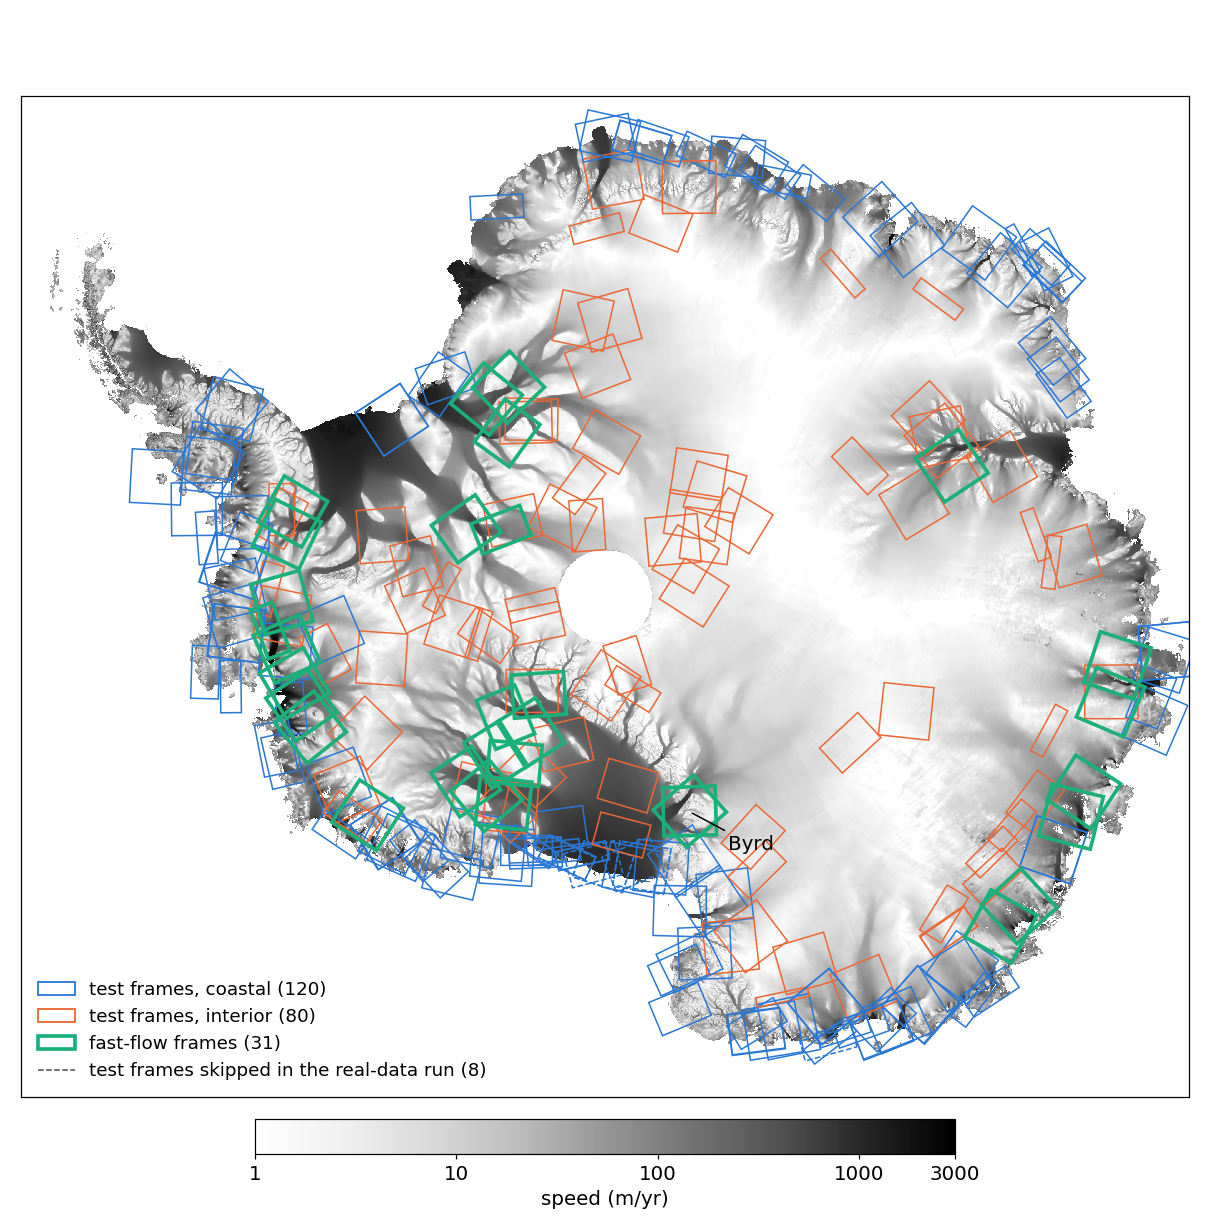
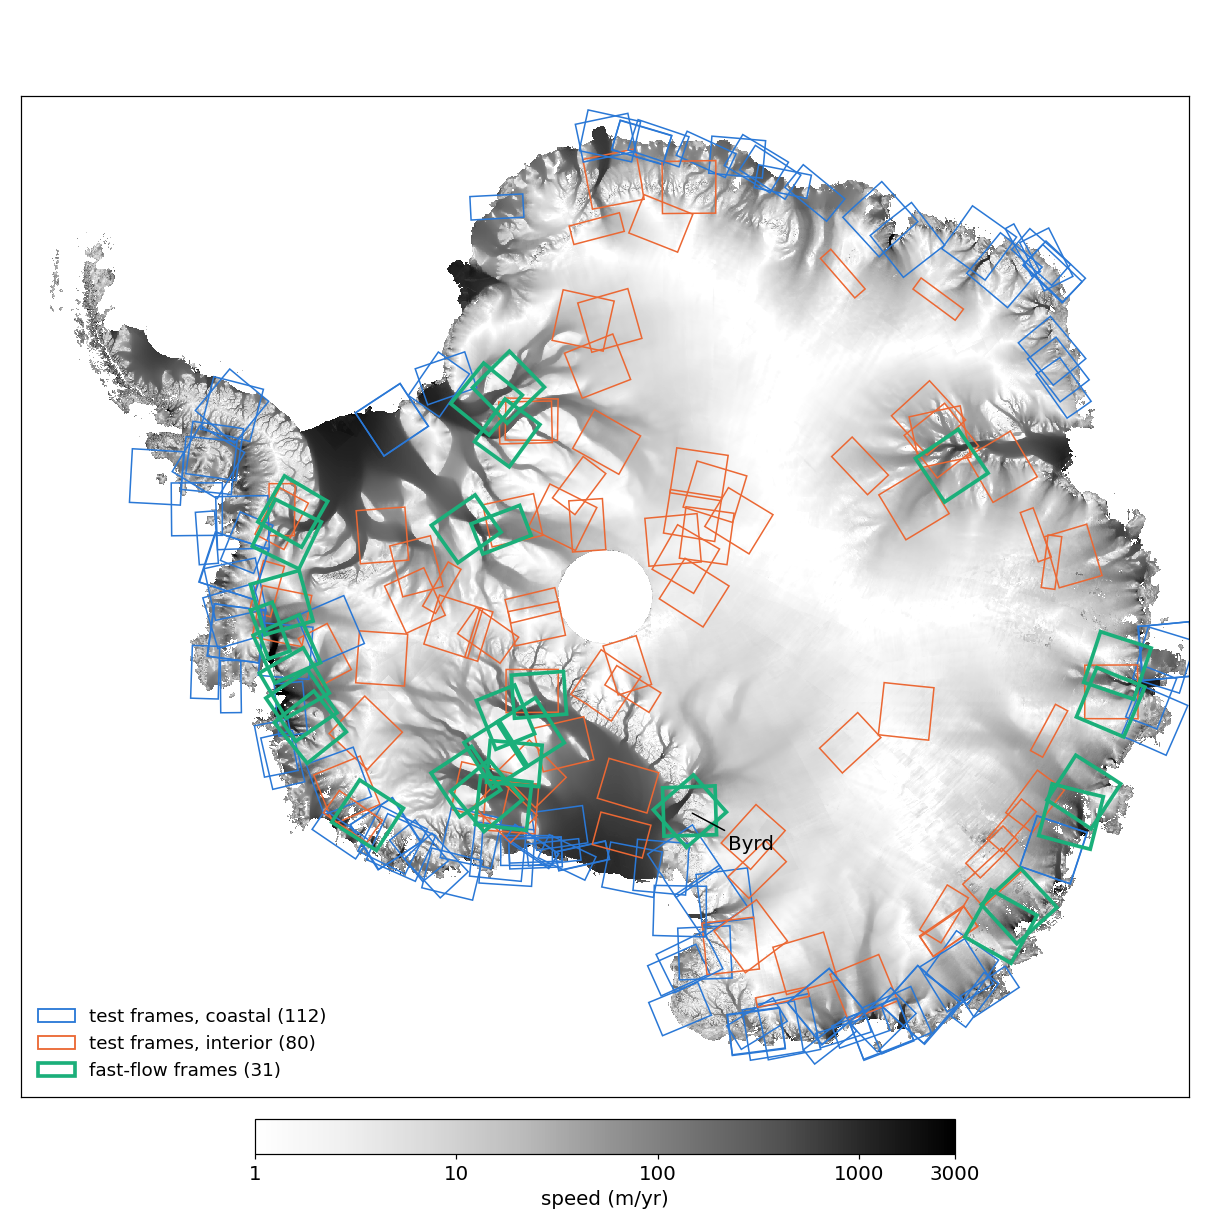
unwrappingReference: frame map and text cover only the 223 scored real frames (192 test, 31 fast-flow)
Claude-Session: https://claude.ai/code/session_01UG6jZhctxPfaFKqE7cozuF

Changed region(s): [[0.0306, 0.8019, 0.3975, 0.8945], [0.4587, 0.6786, 0.5504, 0.7403]]

diff --git a/Documents/unwrappingReference.md b/Documents/unwrappingReference.md
@@ -1,10 +1,10 @@
 # Unwrapping NISAR interferograms with a reference removed: velocity map or range offsets
 
 **Status: draft, 2026-11-17.** All runs described here are complete (Section 1.5 lists what was run on which
-frames). The real-data results are for 231 Antarctica40 frames, 223 of them scored: the 200 frames of the synthetic
-test of `snaphuTilingMasking.md` (the *test frames*, 120 coastal and 80 interior; 192 scored) and 31 frames chosen for
-fast flow (the *fast-flow frames*). Results are given for all of them together, and broken down by set (fast-flow,
-coastal test, interior test) where the sets differ.
+frames). The real-data results are for 223 Antarctica40 frames: 192 of the frames of the synthetic test of
+`snaphuTilingMasking.md` (the *test frames*, 112 coastal and 80 interior) and 31 frames chosen for fast flow (the
+*fast-flow frames*). Results are given for all 223 together, and broken down by set (fast-flow, coastal test,
+interior test) where the sets differ.
 
 ## Purpose
 
@@ -107,16 +107,17 @@ has not been tested.
 
 ### 1.3 Data
 
-- **Test frames (200).** The frames of the synthetic test of `snaphuTilingMasking.md`, drawn to represent the coast
-  (120) and the interior (80) of the Antarctica40 project. They are used twice: as the synthetic test (below), and with
-  their real data, unwrapped with both references like the fast-flow frames.
+- **Test frames (192).** Frames of the synthetic test of `snaphuTilingMasking.md`, drawn to represent the coast (112)
+  and the interior (80) of the Antarctica40 project. Their real data are unwrapped with both references like the
+  fast-flow frames.
 - **Fast-flow frames (31).** Thirty frames chosen over fast-flowing grounded ice, plus Byrd Glacier. The thirty were
   drawn from all Antarctica40 frame locations: at most one third of the frame over open water, at least 300 km² of
   grounded ice faster than 400 m/yr, and at least two components in the standard RUNW each of 5% or more of the frame;
   the most recent such pair per location, at most two per track, centres at least 100 km apart, ranked by fast-ice
   area. They cover the Siple Coast ice streams, Pine Island and Thwaites, Recovery and Slessor, Totten and Denman,
   Evans and Rutford, Lambert, the Peninsula and Byrd. None of them is a test frame.
-- **Synthetic test.** On the test frames, the truth is each frame's map simulation, and the noisy interferogram is the
+- **Synthetic test (200 frames).** The full synthetic test of `snaphuTilingMasking.md`, which includes the test
+  frames. The truth is each frame's map simulation, and the noisy interferogram is the
   truth plus noise matched to the frame's coherence and residue density. For this study the same noisy interferograms
   were unwrapped with two references: the frame's **real** range offsets, which differ from the synthetic truth by the
   real map error and ionosphere as well as their own noise (a harder case than real data, where phase and offsets see
@@ -126,9 +127,9 @@ has not been tested.
 Figure 2 shows where the frames are.
 
 ![Figure 2](images/unwrapRef_frameMap.png)
-*Figure 2. The frames used, over ice speed from the NISAR multi-year Antarctic mosaic (June 2025 to November 2026),
-polar stereographic projection. Thin outlines: the 200 test frames, coastal (blue) and interior (orange); dashed, the
-8 whose real data were not unwrapped (Section 1.5). Thick green outlines: the 31 fast-flow frames, including Byrd.*
+*Figure 2. The 223 real frames, over ice speed from the NISAR multi-year Antarctic mosaic (June 2025 to November
+2026), polar stereographic projection. Thin outlines: the 192 test frames, coastal (blue, 112) and interior (orange,
+80). Thick green outlines: the 31 fast-flow frames, including Byrd.*
 
 ### 1.4 After unwrapping
 
@@ -146,16 +147,13 @@ all residue counts are on the same valid ice pixels for every reference within a
 
 | Set | Frames | Run | Scored |
 |---|---|---|---|
-| Synthetic test | 200 test frames | the synthetic interferograms unwrapped with masked tiled `-S` and no reference, with the real offsets removed, and with the synthetic offsets removed | 200 |
-| Test frames, real data | 200 (120 coastal, 80 interior) | the standard RUNW's wrapped phase unwrapped with masked tiled `-S`, once with the 1 km smoothed map simulation removed and once with the range offsets removed, then the GrIMP ionosphere step on each | 192 |
+| Synthetic test | 200 (including the test frames) | the synthetic interferograms unwrapped with masked tiled `-S` and no reference, with the real offsets removed, and with the synthetic offsets removed | 200 |
+| Test frames, real data | 192 (112 coastal, 80 interior) | the standard RUNW's wrapped phase unwrapped with masked tiled `-S`, once with the 1 km smoothed map simulation removed and once with the range offsets removed, then the GrIMP ionosphere step on each | 192 |
 | Fast-flow frames, real data | 31 | as for the test frames' real data | 31 |
 | Unsmoothed map | 11 (Byrd and 10 coastal test frames) | residues only, with the unsmoothed map simulation removed | 11 |
 
-The 8 test frames not scored (`t115D_f127` ×2, `t173D_f127` ×2, `t080A_f139`, `t057D_f127`, `t102D_f122`,
-`t138A_f139`) were skipped by the runner because the map simulation is missing on more than 10% of their coherent
-pixels; neither new unwrapping was made for them. The offsets runs did not need the map and could be repeated without
-that check. The comparison with the map (Section 3.2.3) uses the 218 real frames (188 test, 30 fast-flow) on which the
-standard RUNW also has a corrected product.
+The comparison with the map (Section 3.2.3) uses the 218 real frames (188 test, 30 fast-flow) on which the standard
+RUNW also has a corrected product.
 
 ## 2. Residues
 
@@ -522,8 +520,6 @@ a rule, only its choices counted.
 
 This section lists what remains to be settled before a reference could be used routinely.
 
-- **The 8 skipped test frames.** Their offsets runs could be made without the check on the map simulation (Section 1.5),
-  which would test the offsets where the map has no coverage.
 - **Testing the selection rule.** Items 2 and 4 of Section 4 are based on residue counts; unwrapping each frame with the
   option they choose and scoring it as in Section 3 would test them as a rule, including whether a choice per block
   instead of per frame does better.
